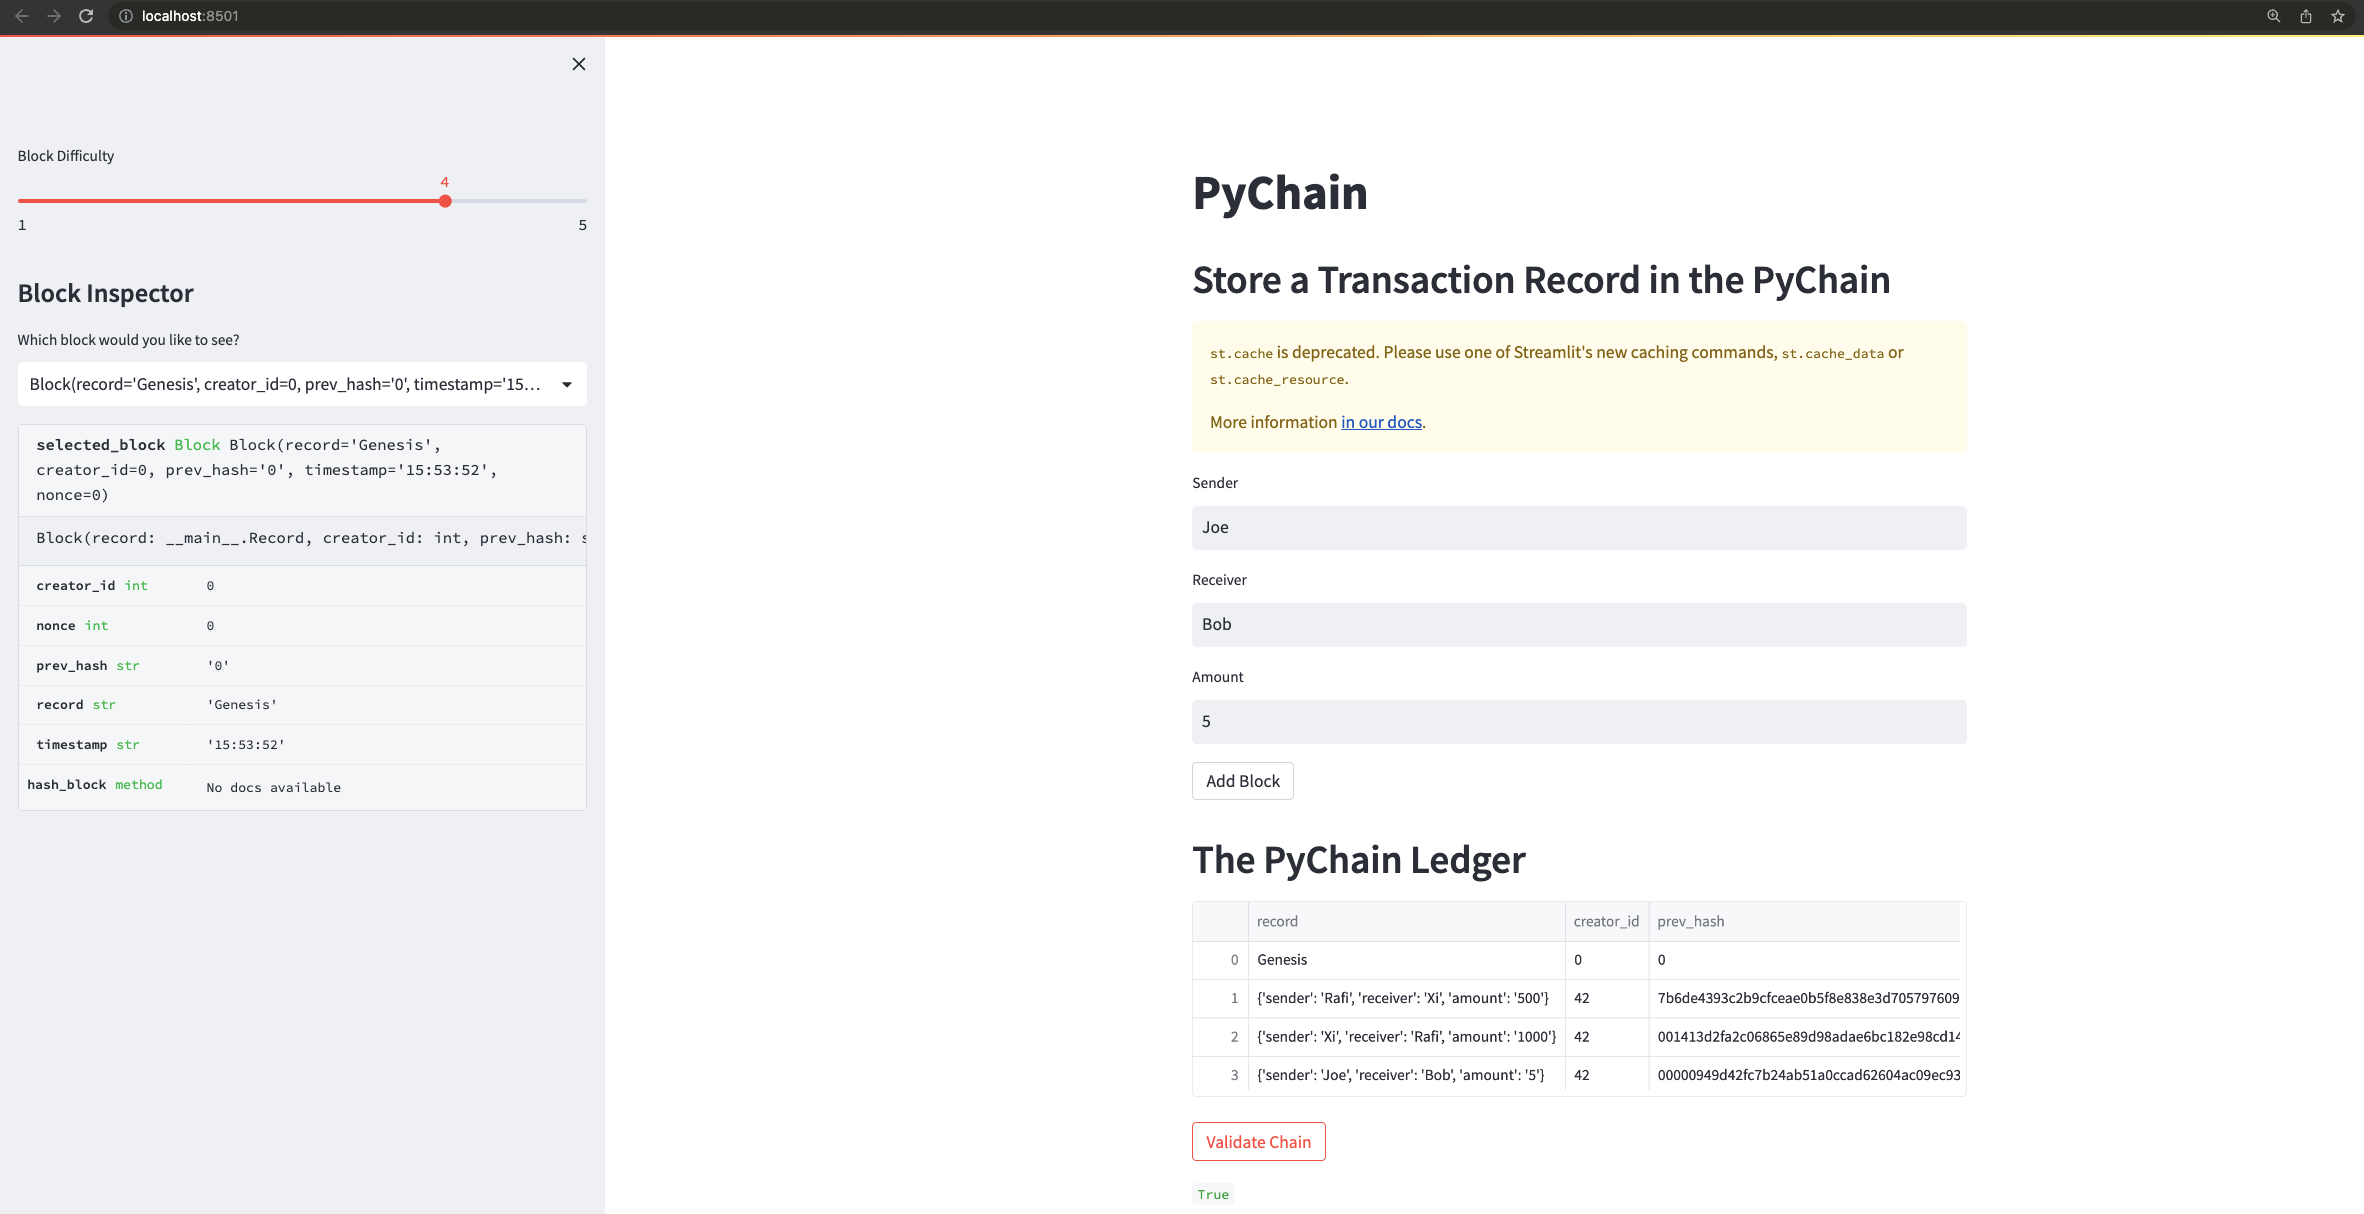
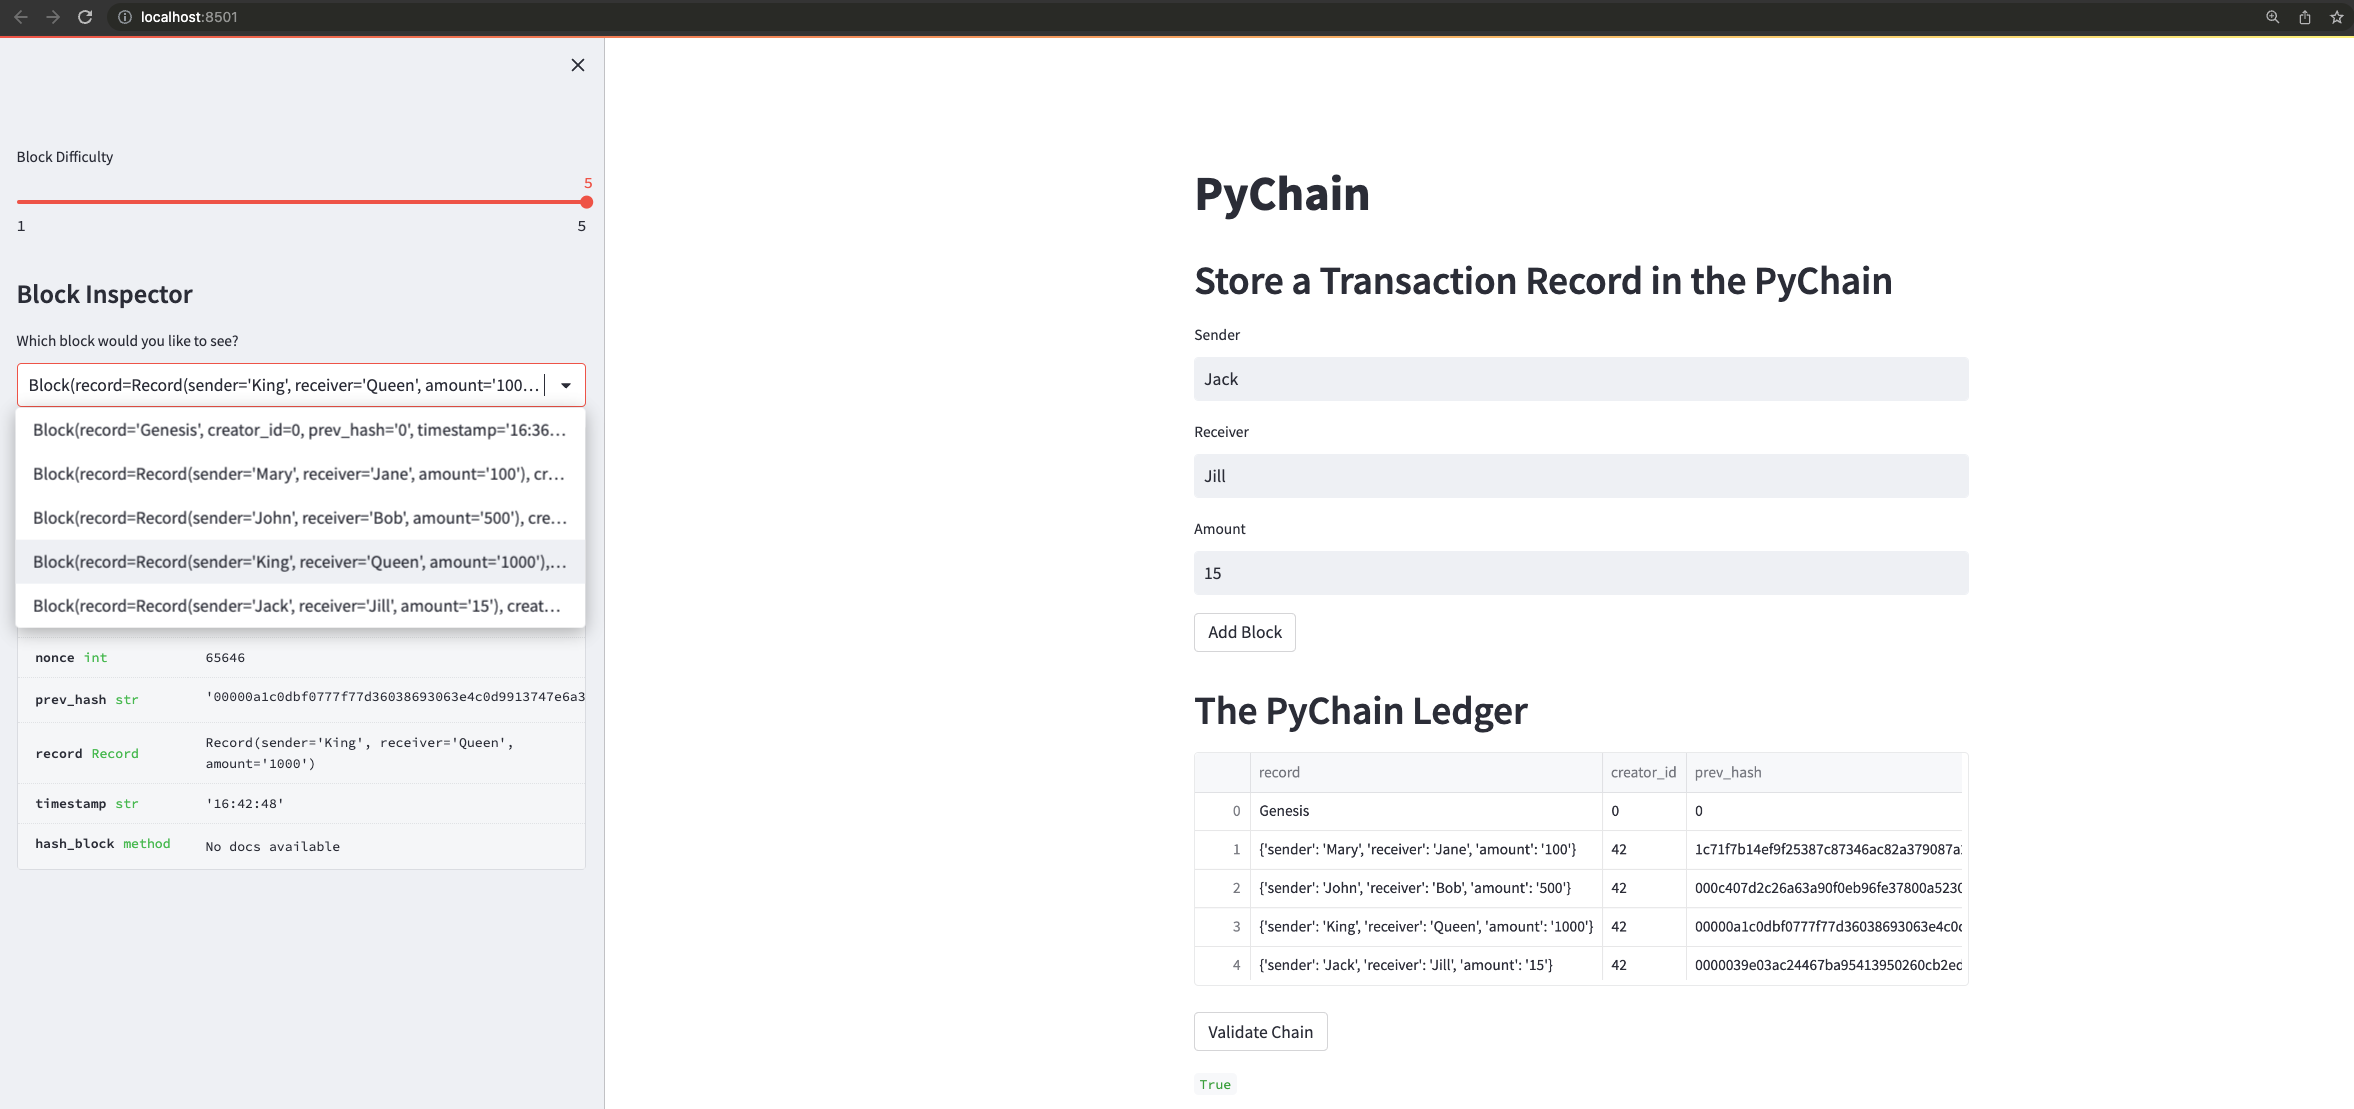
remove warning. update images

diff --git a/pychain.py b/pychain.py
@@ -143,7 +143,8 @@ class PyChain:
 # Adds the cache decorator for Streamlit
 
 
-@st.cache(allow_output_mutation=True)
+# @st.cache(allow_output_mutation=True)
+@st.cache_resource()
 def setup():
     print("Initializing Chain")
     return PyChain([Block("Genesis", 0)])
